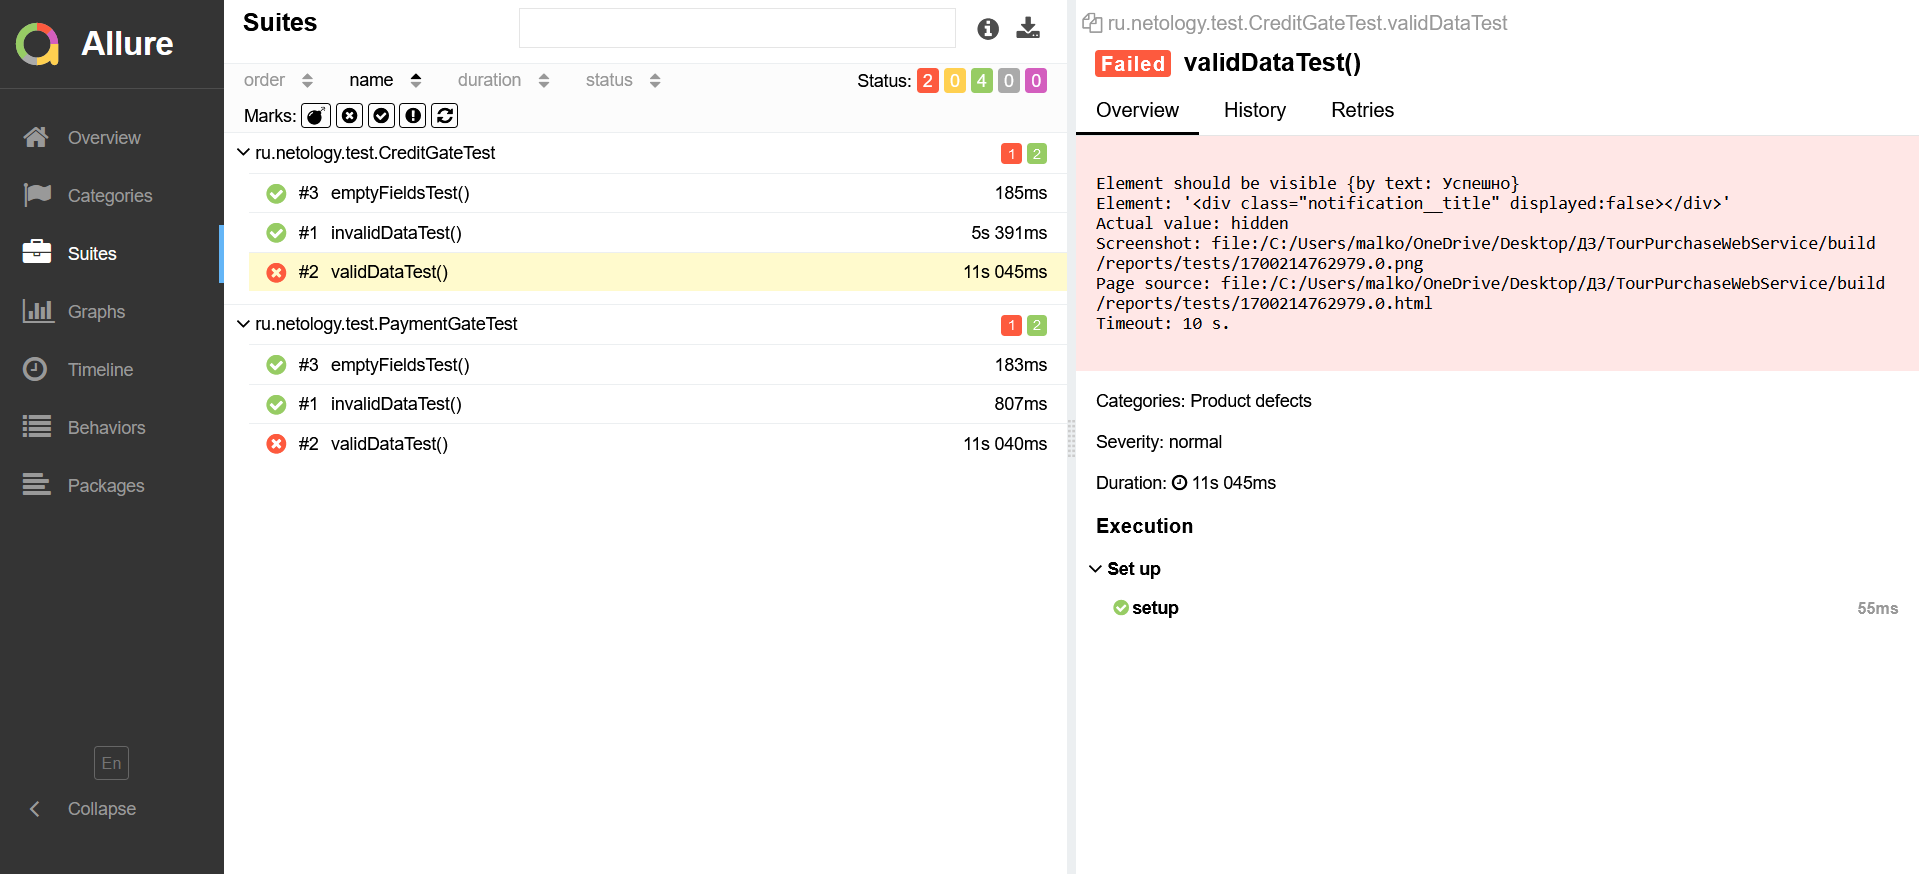
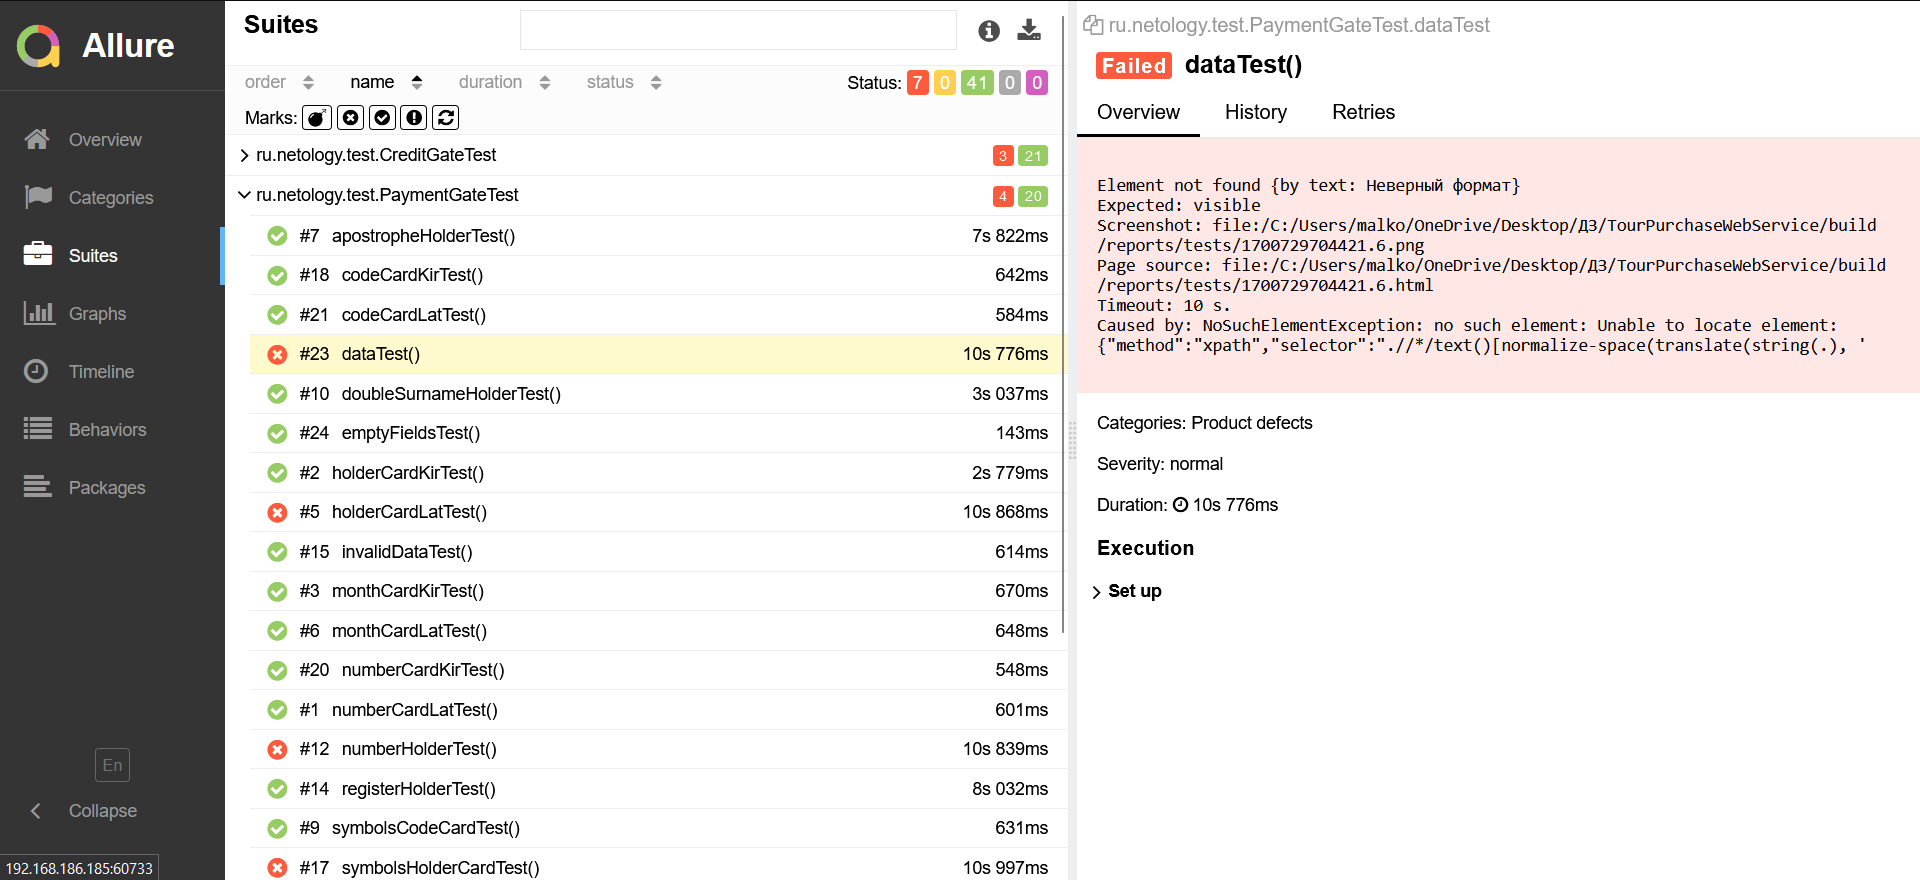
changed the code

diff --git a/src/test/java/ru/netology/data/SQLHelper.java b/src/test/java/ru/netology/data/SQLHelper.java
@@ -19,9 +19,10 @@ public class SQLHelper {
     }
     @SneakyThrows
     public static DataHelper.TransactionId getTransactionId() {
-        var codeSQL = "SELECT transaction_id  FROM payment_entity pe LIMIT 1";
-        var conn = getConn();
-        var code = runner.query(conn, codeSQL, new ScalarHandler<String>());
-        return new DataHelper.TransactionId(code);
+        var codeSQL = "SELECT transaction_id  FROM payment_entity pe LIMIT 1"; // передаем запрос в БД
+        var conn = getConn();                                                  // в переменную помещаем подключение (метод getConn)
+        var code = runner.query(conn, codeSQL, new ScalarHandler<String>());   // runner выполняет подключение, передает код, возвращает строчное значение
+        return new DataHelper.TransactionId(code);                             // возвращает строку
     }
+
 }

diff --git a/src/test/java/ru/netology/test/CreditGateTest.java b/src/test/java/ru/netology/test/CreditGateTest.java
@@ -4,6 +4,7 @@ import org.junit.jupiter.api.BeforeEach;
 import org.junit.jupiter.api.Test;
 
 
+import ru.netology.data.SQLHelper;
 import ru.netology.page.PaymentGate;
 
 import java.time.Duration;
@@ -87,7 +88,7 @@ public class CreditGateTest {
         paymentGate.vc(generateValidRandomNumberCard(), generateRandomMonth(), getCurrentDatePlusOneYear(),
                 generateRandomNameHolderCard(), "number");
         paymentGate.loginButton.click();
-        $(byText("Успешно")).shouldBe(visible, Duration.ofSeconds(10));
+        $(byText("Неверный формат")).shouldBe(visible, Duration.ofSeconds(10));
     }
 
     @Test
@@ -201,5 +202,10 @@ public class CreditGateTest {
         paymentGate.loginButton.click();
         $(byText("Неверный формат")).shouldBe(visible, Duration.ofSeconds(10));
     }
+    @Test
+    void TransactionId() {
+        SQLHelper.getTransactionId();
+    }
+
 
 }

diff --git a/src/test/java/ru/netology/test/PaymentGateTest.java b/src/test/java/ru/netology/test/PaymentGateTest.java
@@ -91,7 +91,7 @@ public class PaymentGateTest {
         paymentGate.vc(generateValidRandomNumberCard(), generateRandomMonth(), getCurrentDatePlusOneYear(),
                 generateRandomNameHolderCard(), "number");
         paymentGate.loginButton.click();
-        $(byText("Успешно")).shouldBe(visible, Duration.ofSeconds(10));
+        $(byText("Неверный формат")).shouldBe(visible, Duration.ofSeconds(10));
     }
 
     @Test

diff --git a/docs/Report.md b/docs/Report.md
@@ -5,17 +5,10 @@
 В полях при заполнении карты для оплаты разделов "Купить" и "Купить в кредит" было проведено ручное тестирование полей, согласно чек-листу приложенному в файле README.md.
 Данные поля отрабатывают корректно.
 
-В разделе "Купить" было проведено 3 автотеста:
- 1. Заполнение полей валидными значениями
- 2. Заполнение одного из полей невалидным значением
- 3. Не заполненные поля
+В разделе "Купить"и "Купить в кредит" было проведено по 24 автотеста согласно чек-листу приложенному в файле README.md..
 
-В разделе "Купить в кредит" было проведено 3 автотеста:
- 1. Заполнение полей валидными значениями
- 2. Заполнение одного из полей невалидным значением
- 3. Не заполненные поля
 
-В разделе "Купить" и "Купить в кредит" тест на "Заполнение полей валидными значениями" не прошел, т.к. был выявлен баг в поле "Год", Issues оформлен в репозитории проекта. 
+Тесты "dataTest()" - Заполнение полей валидными значениями, "numberHolderTest()", "symbolsHolderCardTest()" - заполнение поля "Владелец" цифрами и спецсимволами не прошли, т.к. был выявлен баг, Issues оформлены в репозитории проекта. 
 
 ![Alt text](AllureTest.jpg)
 

diff --git a/README.md b/README.md
@@ -6,6 +6,24 @@
   - [IntelliJ IDEA](https://www.jetbrains.com/idea/download/?section=windows)
   -  [Docker](https://github.com/netology-code/aqa-homeworks/blob/master/docker/installation.md)
 
+  Приложение расположено в файле "_aqa-shop.jar_" и запускается стандартным способом "-java -jar aqa-shop.jar-" на порту 8080.
+
+В файле application.properties приведён ряд типовых настроек:
+
+  - учётные данные и URL для подключения к СУБД;
+  - URL-адреса банковских сервисов.
+
+СУБД
+
+Заявлена поддержка двух СУБД:
+
+  - MySQL;
+  - PostgreSQL.
+
+Учётные данные и URL для подключения задаются в файле application.properties.
+
+Эмулятор написан на Node.js, для его запуска рекомендуется использовать Docker. Эмулятор расположен в каталоге [gate-simulator](https://github.com/netology-code/qa-diploma/tree/master/gate-simulator).
+
 ##### **Шаги:**
 1. С помощью команды "_git clone_" клонировать репозиторий [TourPurchaseWebService](https://github.com/AMA17/TourPurchaseWebService).
 2. Открыть клонированную папку в IntelliJ IDEA.

diff --git a/docs/Summary.md b/docs/Summary.md
@@ -1,8 +1,8 @@
 ### **Отчёт о проведённой автоматизации**
 
-В проведении автотестов было запланировано и реализовано по три теста в разделе "Купить" и "Купить в кредит".
+В проведении автотестов было запланировано и реализовано по 24 теста в разделе "Купить" и "Купить в кредит".
 В процессе настройки, создания и прогонов автотестов потребовалось больше времени, чем было запланировано, т.к. было не корректно заложено время на настройку тестовой среды и подбор белее подходящего кода для автотестов.
 
 Общий итог по времени: 
  - время сдачи запланировано на 15.11.2023г
- - фактическое время сдачи 17.11.2023г
+ - фактическое время сдачи 23.11.2023г
